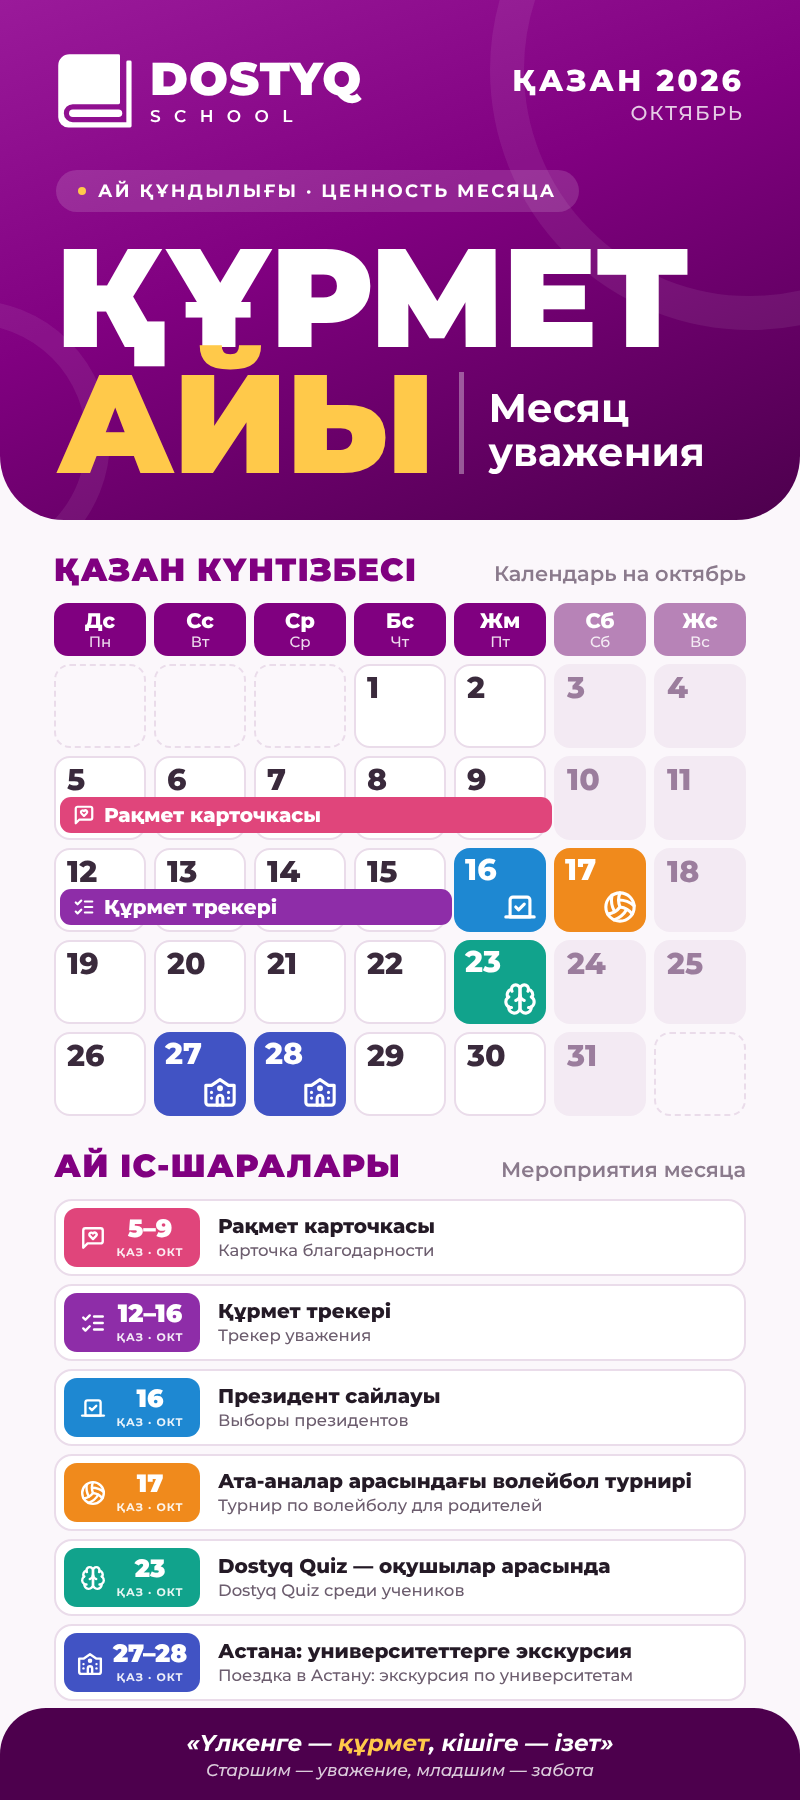
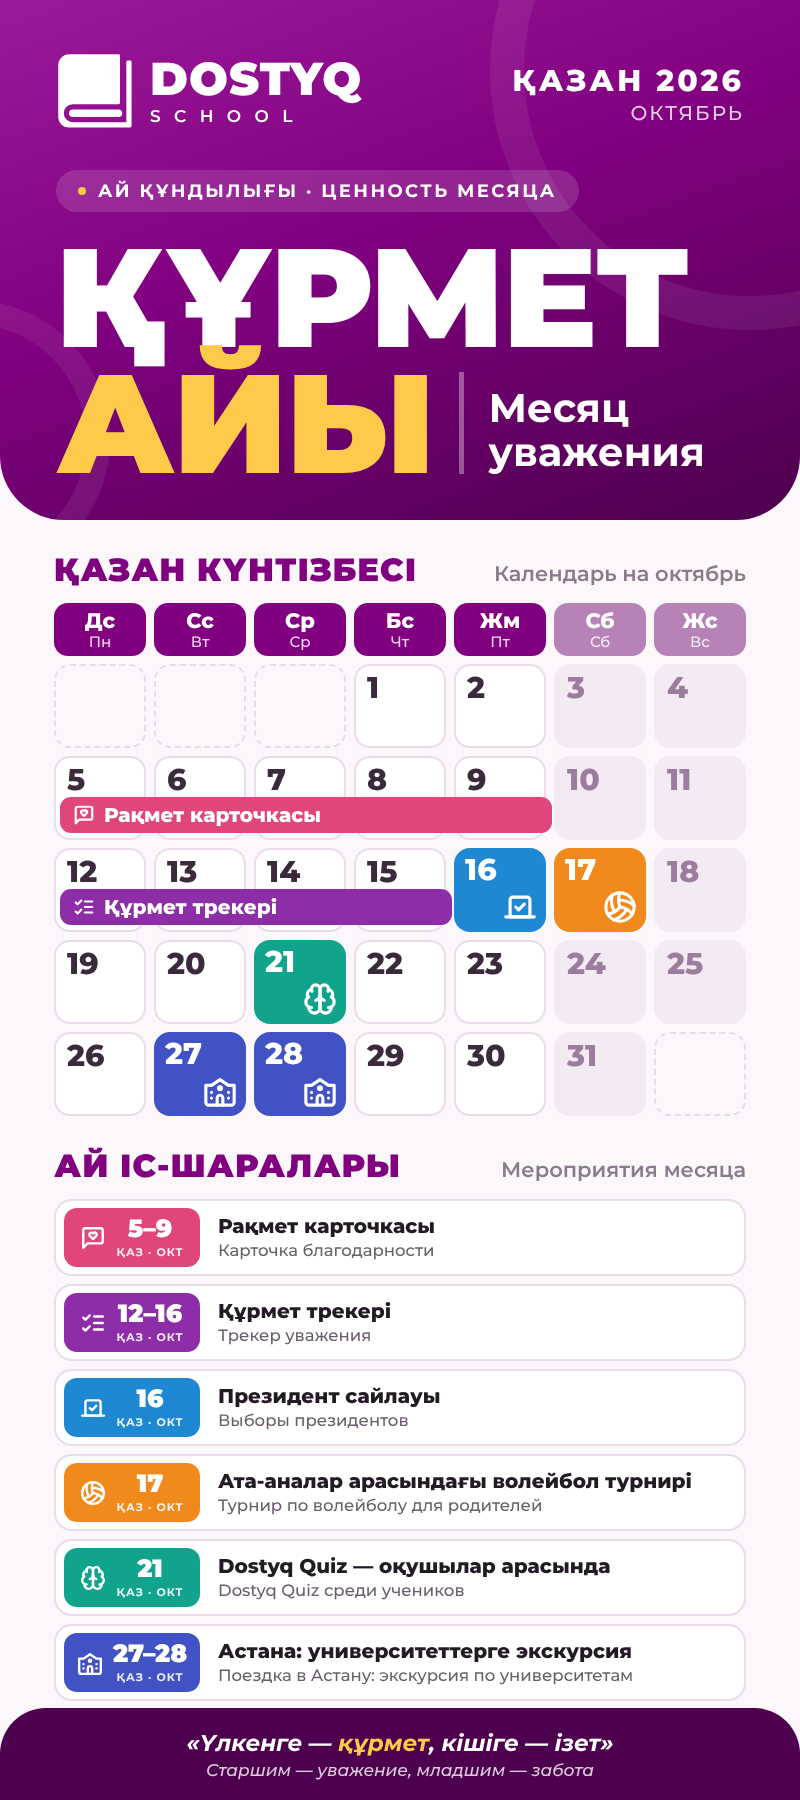
Баннер: Dostyq Quiz переносится на 21 октября
Claude-Session: https://claude.ai/code/session_012i1pHKGDhdTMp5CXfj1Cfx

Changed region(s): [[0.5625, 0.4978, 0.6875, 0.5911], [0.3125, 0.4978, 0.4375, 0.5911]]

diff --git a/banners/kurmet-ayi-2026-10.html b/banners/kurmet-ayi-2026-10.html
@@ -89,11 +89,11 @@ body { font-family: 'Montserrat', sans-serif; color: #241a26; }
   </section>
   <section class="cal">
     <div class="sec"><b>ҚАЗАН КҮНТІЗБЕСІ</b><span>Календарь на октябрь</span></div>
-    <div class="wds"><div class="wd"><b>Дс</b><span>Пн</span></div><div class="wd"><b>Сс</b><span>Вт</span></div><div class="wd"><b>Ср</b><span>Ср</span></div><div class="wd"><b>Бс</b><span>Чт</span></div><div class="wd"><b>Жм</b><span>Пт</span></div><div class="wd we"><b>Сб</b><span>Сб</span></div><div class="wd we"><b>Жс</b><span>Вс</span></div></div><div class="weeks"><div class="week"><div class="cell empty"></div><div class="cell empty"></div><div class="cell empty"></div><div class="cell"><span class="num">1</span></div><div class="cell"><span class="num">2</span></div><div class="cell we"><span class="num">3</span></div><div class="cell we"><span class="num">4</span></div></div><div class="week"><div class="cell"><span class="num">5</span></div><div class="cell"><span class="num">6</span></div><div class="cell"><span class="num">7</span></div><div class="cell"><span class="num">8</span></div><div class="cell"><span class="num">9</span></div><div class="cell we"><span class="num">10</span></div><div class="cell we"><span class="num">11</span></div><div class="bar" style="left:0px;width:492px;background:#E0457B"><svg width="22" height="22" viewBox="0 0 24 24" fill="none" stroke="#fff" stroke-width="2.4" stroke-linecap="round" stroke-linejoin="round" xmlns="http://www.w3.org/2000/svg"><path d="M21 15a2 2 0 0 1-2 2H7l-4 4V5a2 2 0 0 1 2-2h14a2 2 0 0 1 2 2z"/><path d="M14.8 7.5a1.84 1.84 0 0 0-2.6 0l-.2.3-.3-.3a1.84 1.84 0 1 0-2.4 2.8L12 13l2.7-2.7c.9-.9.8-2.1.1-2.8"/></svg><span>Рақмет карточкасы</span></div></div><div class="week"><div class="cell"><span class="num">12</span></div><div class="cell"><span class="num">13</span></div><div class="cell"><span class="num">14</span></div><div class="cell"><span class="num">15</span></div><div class="cell hit" style="background:#1E88D2"><span class="num">16</span><span class="ic"><svg width="34" height="34" viewBox="0 0 24 24" fill="none" stroke="#fff" stroke-width="2.2" stroke-linecap="round" stroke-linejoin="round" xmlns="http://www.w3.org/2000/svg"><path d="m9 12 2 2 4-4"/><path d="M5 7c0-1.1.9-2 2-2h10a2 2 0 0 1 2 2v12H5V7Z"/><path d="M22 19H2"/></svg></span></div><div class="cell we hit" style="background:#F08A1C"><span class="num">17</span><span class="ic"><svg width="34" height="34" viewBox="0 0 24 24" fill="none" stroke="#fff" stroke-width="2.2" stroke-linecap="round" stroke-linejoin="round" xmlns="http://www.w3.org/2000/svg"><path d="M11.1 7.1a16.55 16.55 0 0 1 10.9 4"/><path d="M12 12a12.6 12.6 0 0 1-8.7 5"/><path d="M16.8 13.6a16.55 16.55 0 0 1-9 7.5"/><path d="M20.7 17a12.8 12.8 0 0 0-8.7-5 13.3 13.3 0 0 1 0-10"/><path d="M6.3 3.8a16.55 16.55 0 0 0 1.9 11.5"/><circle cx="12" cy="12" r="10"/></svg></span></div><div class="cell we"><span class="num">18</span></div><div class="bar" style="left:0px;width:392px;background:#8E2DA8"><svg width="22" height="22" viewBox="0 0 24 24" fill="none" stroke="#fff" stroke-width="2.4" stroke-linecap="round" stroke-linejoin="round" xmlns="http://www.w3.org/2000/svg"><path d="m3 17 2 2 4-4"/><path d="m3 7 2 2 4-4"/><path d="M13 6h8"/><path d="M13 12h8"/><path d="M13 18h8"/></svg><span>Құрмет трекері</span></div></div><div class="week"><div class="cell"><span class="num">19</span></div><div class="cell"><span class="num">20</span></div><div class="cell"><span class="num">21</span></div><div class="cell"><span class="num">22</span></div><div class="cell hit" style="background:#11A38C"><span class="num">23</span><span class="ic"><svg width="34" height="34" viewBox="0 0 24 24" fill="none" stroke="#fff" stroke-width="2.2" stroke-linecap="round" stroke-linejoin="round" xmlns="http://www.w3.org/2000/svg"><path d="M12 5a3 3 0 1 0-5.997.125 4 4 0 0 0-2.526 5.77 4 4 0 0 0 .556 6.588A4 4 0 1 0 12 18Z"/><path d="M12 5a3 3 0 1 1 5.997.125 4 4 0 0 1 2.526 5.77 4 4 0 0 1-.556 6.588A4 4 0 1 1 12 18Z"/><path d="M15 13a4.5 4.5 0 0 1-3-4 4.5 4.5 0 0 1-3 4"/><path d="M17.599 6.5a3 3 0 0 0 .399-1.375"/><path d="M6.003 5.125A3 3 0 0 0 6.401 6.5"/><path d="M3.477 10.896a4 4 0 0 1 .585-.396"/><path d="M19.938 10.5a4 4 0 0 1 .585.396"/><path d="M6 18a4 4 0 0 1-1.967-.516"/><path d="M19.967 17.484A4 4 0 0 1 18 18"/></svg></span></div><div class="cell we"><span class="num">24</span></div><div class="cell we"><span class="num">25</span></div></div><div class="week"><div class="cell"><span class="num">26</span></div><div class="cell hit" style="background:#4153C4"><span class="num">27</span><span class="ic"><svg width="34" height="34" viewBox="0 0 24 24" fill="none" stroke="#fff" stroke-width="2.2" stroke-linecap="round" stroke-linejoin="round" xmlns="http://www.w3.org/2000/svg"><circle cx="12" cy="10" r="1"/><path d="M22 20V8h-4l-6-4-6 4H2v12a2 2 0 0 0 2 2h16a2 2 0 0 0 2-2"/><path d="M6 17v.01"/><path d="M6 13v.01"/><path d="M18 17v.01"/><path d="M18 13v.01"/><path d="M14 22v-5a2 2 0 0 0-2-2a2 2 0 0 0-2 2v5"/></svg></span></div><div class="cell hit" style="background:#4153C4"><span class="num">28</span><span class="ic"><svg width="34" height="34" viewBox="0 0 24 24" fill="none" stroke="#fff" stroke-width="2.2" stroke-linecap="round" stroke-linejoin="round" xmlns="http://www.w3.org/2000/svg"><circle cx="12" cy="10" r="1"/><path d="M22 20V8h-4l-6-4-6 4H2v12a2 2 0 0 0 2 2h16a2 2 0 0 0 2-2"/><path d="M6 17v.01"/><path d="M6 13v.01"/><path d="M18 17v.01"/><path d="M18 13v.01"/><path d="M14 22v-5a2 2 0 0 0-2-2a2 2 0 0 0-2 2v5"/></svg></span></div><div class="cell"><span class="num">29</span></div><div class="cell"><span class="num">30</span></div><div class="cell we"><span class="num">31</span></div><div class="cell empty"></div></div></div>
+    <div class="wds"><div class="wd"><b>Дс</b><span>Пн</span></div><div class="wd"><b>Сс</b><span>Вт</span></div><div class="wd"><b>Ср</b><span>Ср</span></div><div class="wd"><b>Бс</b><span>Чт</span></div><div class="wd"><b>Жм</b><span>Пт</span></div><div class="wd we"><b>Сб</b><span>Сб</span></div><div class="wd we"><b>Жс</b><span>Вс</span></div></div><div class="weeks"><div class="week"><div class="cell empty"></div><div class="cell empty"></div><div class="cell empty"></div><div class="cell"><span class="num">1</span></div><div class="cell"><span class="num">2</span></div><div class="cell we"><span class="num">3</span></div><div class="cell we"><span class="num">4</span></div></div><div class="week"><div class="cell"><span class="num">5</span></div><div class="cell"><span class="num">6</span></div><div class="cell"><span class="num">7</span></div><div class="cell"><span class="num">8</span></div><div class="cell"><span class="num">9</span></div><div class="cell we"><span class="num">10</span></div><div class="cell we"><span class="num">11</span></div><div class="bar" style="left:0px;width:492px;background:#E0457B"><svg width="22" height="22" viewBox="0 0 24 24" fill="none" stroke="#fff" stroke-width="2.4" stroke-linecap="round" stroke-linejoin="round" xmlns="http://www.w3.org/2000/svg"><path d="M21 15a2 2 0 0 1-2 2H7l-4 4V5a2 2 0 0 1 2-2h14a2 2 0 0 1 2 2z"/><path d="M14.8 7.5a1.84 1.84 0 0 0-2.6 0l-.2.3-.3-.3a1.84 1.84 0 1 0-2.4 2.8L12 13l2.7-2.7c.9-.9.8-2.1.1-2.8"/></svg><span>Рақмет карточкасы</span></div></div><div class="week"><div class="cell"><span class="num">12</span></div><div class="cell"><span class="num">13</span></div><div class="cell"><span class="num">14</span></div><div class="cell"><span class="num">15</span></div><div class="cell hit" style="background:#1E88D2"><span class="num">16</span><span class="ic"><svg width="34" height="34" viewBox="0 0 24 24" fill="none" stroke="#fff" stroke-width="2.2" stroke-linecap="round" stroke-linejoin="round" xmlns="http://www.w3.org/2000/svg"><path d="m9 12 2 2 4-4"/><path d="M5 7c0-1.1.9-2 2-2h10a2 2 0 0 1 2 2v12H5V7Z"/><path d="M22 19H2"/></svg></span></div><div class="cell we hit" style="background:#F08A1C"><span class="num">17</span><span class="ic"><svg width="34" height="34" viewBox="0 0 24 24" fill="none" stroke="#fff" stroke-width="2.2" stroke-linecap="round" stroke-linejoin="round" xmlns="http://www.w3.org/2000/svg"><path d="M11.1 7.1a16.55 16.55 0 0 1 10.9 4"/><path d="M12 12a12.6 12.6 0 0 1-8.7 5"/><path d="M16.8 13.6a16.55 16.55 0 0 1-9 7.5"/><path d="M20.7 17a12.8 12.8 0 0 0-8.7-5 13.3 13.3 0 0 1 0-10"/><path d="M6.3 3.8a16.55 16.55 0 0 0 1.9 11.5"/><circle cx="12" cy="12" r="10"/></svg></span></div><div class="cell we"><span class="num">18</span></div><div class="bar" style="left:0px;width:392px;background:#8E2DA8"><svg width="22" height="22" viewBox="0 0 24 24" fill="none" stroke="#fff" stroke-width="2.4" stroke-linecap="round" stroke-linejoin="round" xmlns="http://www.w3.org/2000/svg"><path d="m3 17 2 2 4-4"/><path d="m3 7 2 2 4-4"/><path d="M13 6h8"/><path d="M13 12h8"/><path d="M13 18h8"/></svg><span>Құрмет трекері</span></div></div><div class="week"><div class="cell"><span class="num">19</span></div><div class="cell"><span class="num">20</span></div><div class="cell hit" style="background:#11A38C"><span class="num">21</span><span class="ic"><svg width="34" height="34" viewBox="0 0 24 24" fill="none" stroke="#fff" stroke-width="2.2" stroke-linecap="round" stroke-linejoin="round" xmlns="http://www.w3.org/2000/svg"><path d="M12 5a3 3 0 1 0-5.997.125 4 4 0 0 0-2.526 5.77 4 4 0 0 0 .556 6.588A4 4 0 1 0 12 18Z"/><path d="M12 5a3 3 0 1 1 5.997.125 4 4 0 0 1 2.526 5.77 4 4 0 0 1-.556 6.588A4 4 0 1 1 12 18Z"/><path d="M15 13a4.5 4.5 0 0 1-3-4 4.5 4.5 0 0 1-3 4"/><path d="M17.599 6.5a3 3 0 0 0 .399-1.375"/><path d="M6.003 5.125A3 3 0 0 0 6.401 6.5"/><path d="M3.477 10.896a4 4 0 0 1 .585-.396"/><path d="M19.938 10.5a4 4 0 0 1 .585.396"/><path d="M6 18a4 4 0 0 1-1.967-.516"/><path d="M19.967 17.484A4 4 0 0 1 18 18"/></svg></span></div><div class="cell"><span class="num">22</span></div><div class="cell"><span class="num">23</span></div><div class="cell we"><span class="num">24</span></div><div class="cell we"><span class="num">25</span></div></div><div class="week"><div class="cell"><span class="num">26</span></div><div class="cell hit" style="background:#4153C4"><span class="num">27</span><span class="ic"><svg width="34" height="34" viewBox="0 0 24 24" fill="none" stroke="#fff" stroke-width="2.2" stroke-linecap="round" stroke-linejoin="round" xmlns="http://www.w3.org/2000/svg"><circle cx="12" cy="10" r="1"/><path d="M22 20V8h-4l-6-4-6 4H2v12a2 2 0 0 0 2 2h16a2 2 0 0 0 2-2"/><path d="M6 17v.01"/><path d="M6 13v.01"/><path d="M18 17v.01"/><path d="M18 13v.01"/><path d="M14 22v-5a2 2 0 0 0-2-2a2 2 0 0 0-2 2v5"/></svg></span></div><div class="cell hit" style="background:#4153C4"><span class="num">28</span><span class="ic"><svg width="34" height="34" viewBox="0 0 24 24" fill="none" stroke="#fff" stroke-width="2.2" stroke-linecap="round" stroke-linejoin="round" xmlns="http://www.w3.org/2000/svg"><circle cx="12" cy="10" r="1"/><path d="M22 20V8h-4l-6-4-6 4H2v12a2 2 0 0 0 2 2h16a2 2 0 0 0 2-2"/><path d="M6 17v.01"/><path d="M6 13v.01"/><path d="M18 17v.01"/><path d="M18 13v.01"/><path d="M14 22v-5a2 2 0 0 0-2-2a2 2 0 0 0-2 2v5"/></svg></span></div><div class="cell"><span class="num">29</span></div><div class="cell"><span class="num">30</span></div><div class="cell we"><span class="num">31</span></div><div class="cell empty"></div></div></div>
   </section>
   <section class="list">
     <div class="sec"><b>АЙ ІС-ШАРАЛАРЫ</b><span>Мероприятия месяца</span></div>
-    <div class="evs"><div class="ev"><div class="tile" style="background:#E0457B"><svg width="26" height="26" viewBox="0 0 24 24" fill="none" stroke="#fff" stroke-width="2.2" stroke-linecap="round" stroke-linejoin="round" xmlns="http://www.w3.org/2000/svg"><path d="M21 15a2 2 0 0 1-2 2H7l-4 4V5a2 2 0 0 1 2-2h14a2 2 0 0 1 2 2z"/><path d="M14.8 7.5a1.84 1.84 0 0 0-2.6 0l-.2.3-.3-.3a1.84 1.84 0 1 0-2.4 2.8L12 13l2.7-2.7c.9-.9.8-2.1.1-2.8"/></svg><div><b>5–9</b><span>ҚАЗ · ОКТ</span></div></div><div class="what"><b>Рақмет карточкасы</b><span>Карточка благодарности</span></div></div><div class="ev"><div class="tile" style="background:#8E2DA8"><svg width="26" height="26" viewBox="0 0 24 24" fill="none" stroke="#fff" stroke-width="2.2" stroke-linecap="round" stroke-linejoin="round" xmlns="http://www.w3.org/2000/svg"><path d="m3 17 2 2 4-4"/><path d="m3 7 2 2 4-4"/><path d="M13 6h8"/><path d="M13 12h8"/><path d="M13 18h8"/></svg><div><b>12–16</b><span>ҚАЗ · ОКТ</span></div></div><div class="what"><b>Құрмет трекері</b><span>Трекер уважения</span></div></div><div class="ev"><div class="tile" style="background:#1E88D2"><svg width="26" height="26" viewBox="0 0 24 24" fill="none" stroke="#fff" stroke-width="2.2" stroke-linecap="round" stroke-linejoin="round" xmlns="http://www.w3.org/2000/svg"><path d="m9 12 2 2 4-4"/><path d="M5 7c0-1.1.9-2 2-2h10a2 2 0 0 1 2 2v12H5V7Z"/><path d="M22 19H2"/></svg><div><b>16</b><span>ҚАЗ · ОКТ</span></div></div><div class="what"><b>Президент сайлауы</b><span>Выборы президентов</span></div></div><div class="ev"><div class="tile" style="background:#F08A1C"><svg width="26" height="26" viewBox="0 0 24 24" fill="none" stroke="#fff" stroke-width="2.2" stroke-linecap="round" stroke-linejoin="round" xmlns="http://www.w3.org/2000/svg"><path d="M11.1 7.1a16.55 16.55 0 0 1 10.9 4"/><path d="M12 12a12.6 12.6 0 0 1-8.7 5"/><path d="M16.8 13.6a16.55 16.55 0 0 1-9 7.5"/><path d="M20.7 17a12.8 12.8 0 0 0-8.7-5 13.3 13.3 0 0 1 0-10"/><path d="M6.3 3.8a16.55 16.55 0 0 0 1.9 11.5"/><circle cx="12" cy="12" r="10"/></svg><div><b>17</b><span>ҚАЗ · ОКТ</span></div></div><div class="what"><b>Ата-аналар арасындағы волейбол турнирі</b><span>Турнир по волейболу для родителей</span></div></div><div class="ev"><div class="tile" style="background:#11A38C"><svg width="26" height="26" viewBox="0 0 24 24" fill="none" stroke="#fff" stroke-width="2.2" stroke-linecap="round" stroke-linejoin="round" xmlns="http://www.w3.org/2000/svg"><path d="M12 5a3 3 0 1 0-5.997.125 4 4 0 0 0-2.526 5.77 4 4 0 0 0 .556 6.588A4 4 0 1 0 12 18Z"/><path d="M12 5a3 3 0 1 1 5.997.125 4 4 0 0 1 2.526 5.77 4 4 0 0 1-.556 6.588A4 4 0 1 1 12 18Z"/><path d="M15 13a4.5 4.5 0 0 1-3-4 4.5 4.5 0 0 1-3 4"/><path d="M17.599 6.5a3 3 0 0 0 .399-1.375"/><path d="M6.003 5.125A3 3 0 0 0 6.401 6.5"/><path d="M3.477 10.896a4 4 0 0 1 .585-.396"/><path d="M19.938 10.5a4 4 0 0 1 .585.396"/><path d="M6 18a4 4 0 0 1-1.967-.516"/><path d="M19.967 17.484A4 4 0 0 1 18 18"/></svg><div><b>23</b><span>ҚАЗ · ОКТ</span></div></div><div class="what"><b>Dostyq Quiz — оқушылар арасында</b><span>Dostyq Quiz среди учеников</span></div></div><div class="ev"><div class="tile" style="background:#4153C4"><svg width="26" height="26" viewBox="0 0 24 24" fill="none" stroke="#fff" stroke-width="2.2" stroke-linecap="round" stroke-linejoin="round" xmlns="http://www.w3.org/2000/svg"><circle cx="12" cy="10" r="1"/><path d="M22 20V8h-4l-6-4-6 4H2v12a2 2 0 0 0 2 2h16a2 2 0 0 0 2-2"/><path d="M6 17v.01"/><path d="M6 13v.01"/><path d="M18 17v.01"/><path d="M18 13v.01"/><path d="M14 22v-5a2 2 0 0 0-2-2a2 2 0 0 0-2 2v5"/></svg><div><b>27–28</b><span>ҚАЗ · ОКТ</span></div></div><div class="what"><b>Астана: университеттерге экскурсия</b><span>Поездка в Астану: экскурсия по университетам</span></div></div></div>
+    <div class="evs"><div class="ev"><div class="tile" style="background:#E0457B"><svg width="26" height="26" viewBox="0 0 24 24" fill="none" stroke="#fff" stroke-width="2.2" stroke-linecap="round" stroke-linejoin="round" xmlns="http://www.w3.org/2000/svg"><path d="M21 15a2 2 0 0 1-2 2H7l-4 4V5a2 2 0 0 1 2-2h14a2 2 0 0 1 2 2z"/><path d="M14.8 7.5a1.84 1.84 0 0 0-2.6 0l-.2.3-.3-.3a1.84 1.84 0 1 0-2.4 2.8L12 13l2.7-2.7c.9-.9.8-2.1.1-2.8"/></svg><div><b>5–9</b><span>ҚАЗ · ОКТ</span></div></div><div class="what"><b>Рақмет карточкасы</b><span>Карточка благодарности</span></div></div><div class="ev"><div class="tile" style="background:#8E2DA8"><svg width="26" height="26" viewBox="0 0 24 24" fill="none" stroke="#fff" stroke-width="2.2" stroke-linecap="round" stroke-linejoin="round" xmlns="http://www.w3.org/2000/svg"><path d="m3 17 2 2 4-4"/><path d="m3 7 2 2 4-4"/><path d="M13 6h8"/><path d="M13 12h8"/><path d="M13 18h8"/></svg><div><b>12–16</b><span>ҚАЗ · ОКТ</span></div></div><div class="what"><b>Құрмет трекері</b><span>Трекер уважения</span></div></div><div class="ev"><div class="tile" style="background:#1E88D2"><svg width="26" height="26" viewBox="0 0 24 24" fill="none" stroke="#fff" stroke-width="2.2" stroke-linecap="round" stroke-linejoin="round" xmlns="http://www.w3.org/2000/svg"><path d="m9 12 2 2 4-4"/><path d="M5 7c0-1.1.9-2 2-2h10a2 2 0 0 1 2 2v12H5V7Z"/><path d="M22 19H2"/></svg><div><b>16</b><span>ҚАЗ · ОКТ</span></div></div><div class="what"><b>Президент сайлауы</b><span>Выборы президентов</span></div></div><div class="ev"><div class="tile" style="background:#F08A1C"><svg width="26" height="26" viewBox="0 0 24 24" fill="none" stroke="#fff" stroke-width="2.2" stroke-linecap="round" stroke-linejoin="round" xmlns="http://www.w3.org/2000/svg"><path d="M11.1 7.1a16.55 16.55 0 0 1 10.9 4"/><path d="M12 12a12.6 12.6 0 0 1-8.7 5"/><path d="M16.8 13.6a16.55 16.55 0 0 1-9 7.5"/><path d="M20.7 17a12.8 12.8 0 0 0-8.7-5 13.3 13.3 0 0 1 0-10"/><path d="M6.3 3.8a16.55 16.55 0 0 0 1.9 11.5"/><circle cx="12" cy="12" r="10"/></svg><div><b>17</b><span>ҚАЗ · ОКТ</span></div></div><div class="what"><b>Ата-аналар арасындағы волейбол турнирі</b><span>Турнир по волейболу для родителей</span></div></div><div class="ev"><div class="tile" style="background:#11A38C"><svg width="26" height="26" viewBox="0 0 24 24" fill="none" stroke="#fff" stroke-width="2.2" stroke-linecap="round" stroke-linejoin="round" xmlns="http://www.w3.org/2000/svg"><path d="M12 5a3 3 0 1 0-5.997.125 4 4 0 0 0-2.526 5.77 4 4 0 0 0 .556 6.588A4 4 0 1 0 12 18Z"/><path d="M12 5a3 3 0 1 1 5.997.125 4 4 0 0 1 2.526 5.77 4 4 0 0 1-.556 6.588A4 4 0 1 1 12 18Z"/><path d="M15 13a4.5 4.5 0 0 1-3-4 4.5 4.5 0 0 1-3 4"/><path d="M17.599 6.5a3 3 0 0 0 .399-1.375"/><path d="M6.003 5.125A3 3 0 0 0 6.401 6.5"/><path d="M3.477 10.896a4 4 0 0 1 .585-.396"/><path d="M19.938 10.5a4 4 0 0 1 .585.396"/><path d="M6 18a4 4 0 0 1-1.967-.516"/><path d="M19.967 17.484A4 4 0 0 1 18 18"/></svg><div><b>21</b><span>ҚАЗ · ОКТ</span></div></div><div class="what"><b>Dostyq Quiz — оқушылар арасында</b><span>Dostyq Quiz среди учеников</span></div></div><div class="ev"><div class="tile" style="background:#4153C4"><svg width="26" height="26" viewBox="0 0 24 24" fill="none" stroke="#fff" stroke-width="2.2" stroke-linecap="round" stroke-linejoin="round" xmlns="http://www.w3.org/2000/svg"><circle cx="12" cy="10" r="1"/><path d="M22 20V8h-4l-6-4-6 4H2v12a2 2 0 0 0 2 2h16a2 2 0 0 0 2-2"/><path d="M6 17v.01"/><path d="M6 13v.01"/><path d="M18 17v.01"/><path d="M18 13v.01"/><path d="M14 22v-5a2 2 0 0 0-2-2a2 2 0 0 0-2 2v5"/></svg><div><b>27–28</b><span>ҚАЗ · ОКТ</span></div></div><div class="what"><b>Астана: университеттерге экскурсия</b><span>Поездка в Астану: экскурсия по университетам</span></div></div></div>
   </section>
   <footer class="foot"><b>«Үлкенге — <i>құрмет</i>, кішіге — ізет»</b><span>Старшим — уважение, младшим — забота</span></footer>
 </div>

diff --git a/banners/build_october_banner.py b/banners/build_october_banner.py
@@ -63,8 +63,8 @@ EVENTS = [
          tile="16", kz="Президент сайлауы", ru="Выборы президентов"),
     dict(days=[17], color="#F08A1C", icon="ball",
          tile="17", kz="Ата-аналар арасындағы волейбол турнирі", ru="Турнир по волейболу для родителей"),
-    dict(days=[23], color="#11A38C", icon="quiz",
-         tile="23", kz="Dostyq Quiz — оқушылар арасында", ru="Dostyq Quiz среди учеников"),
+    dict(days=[21], color="#11A38C", icon="quiz",
+         tile="21", kz="Dostyq Quiz — оқушылар арасында", ru="Dostyq Quiz среди учеников"),
     dict(days=[27, 28], color="#4153C4", icon="uni",
          tile="27–28", kz="Астана: университеттерге экскурсия", ru="Поездка в Астану: экскурсия по университетам"),
 ]
